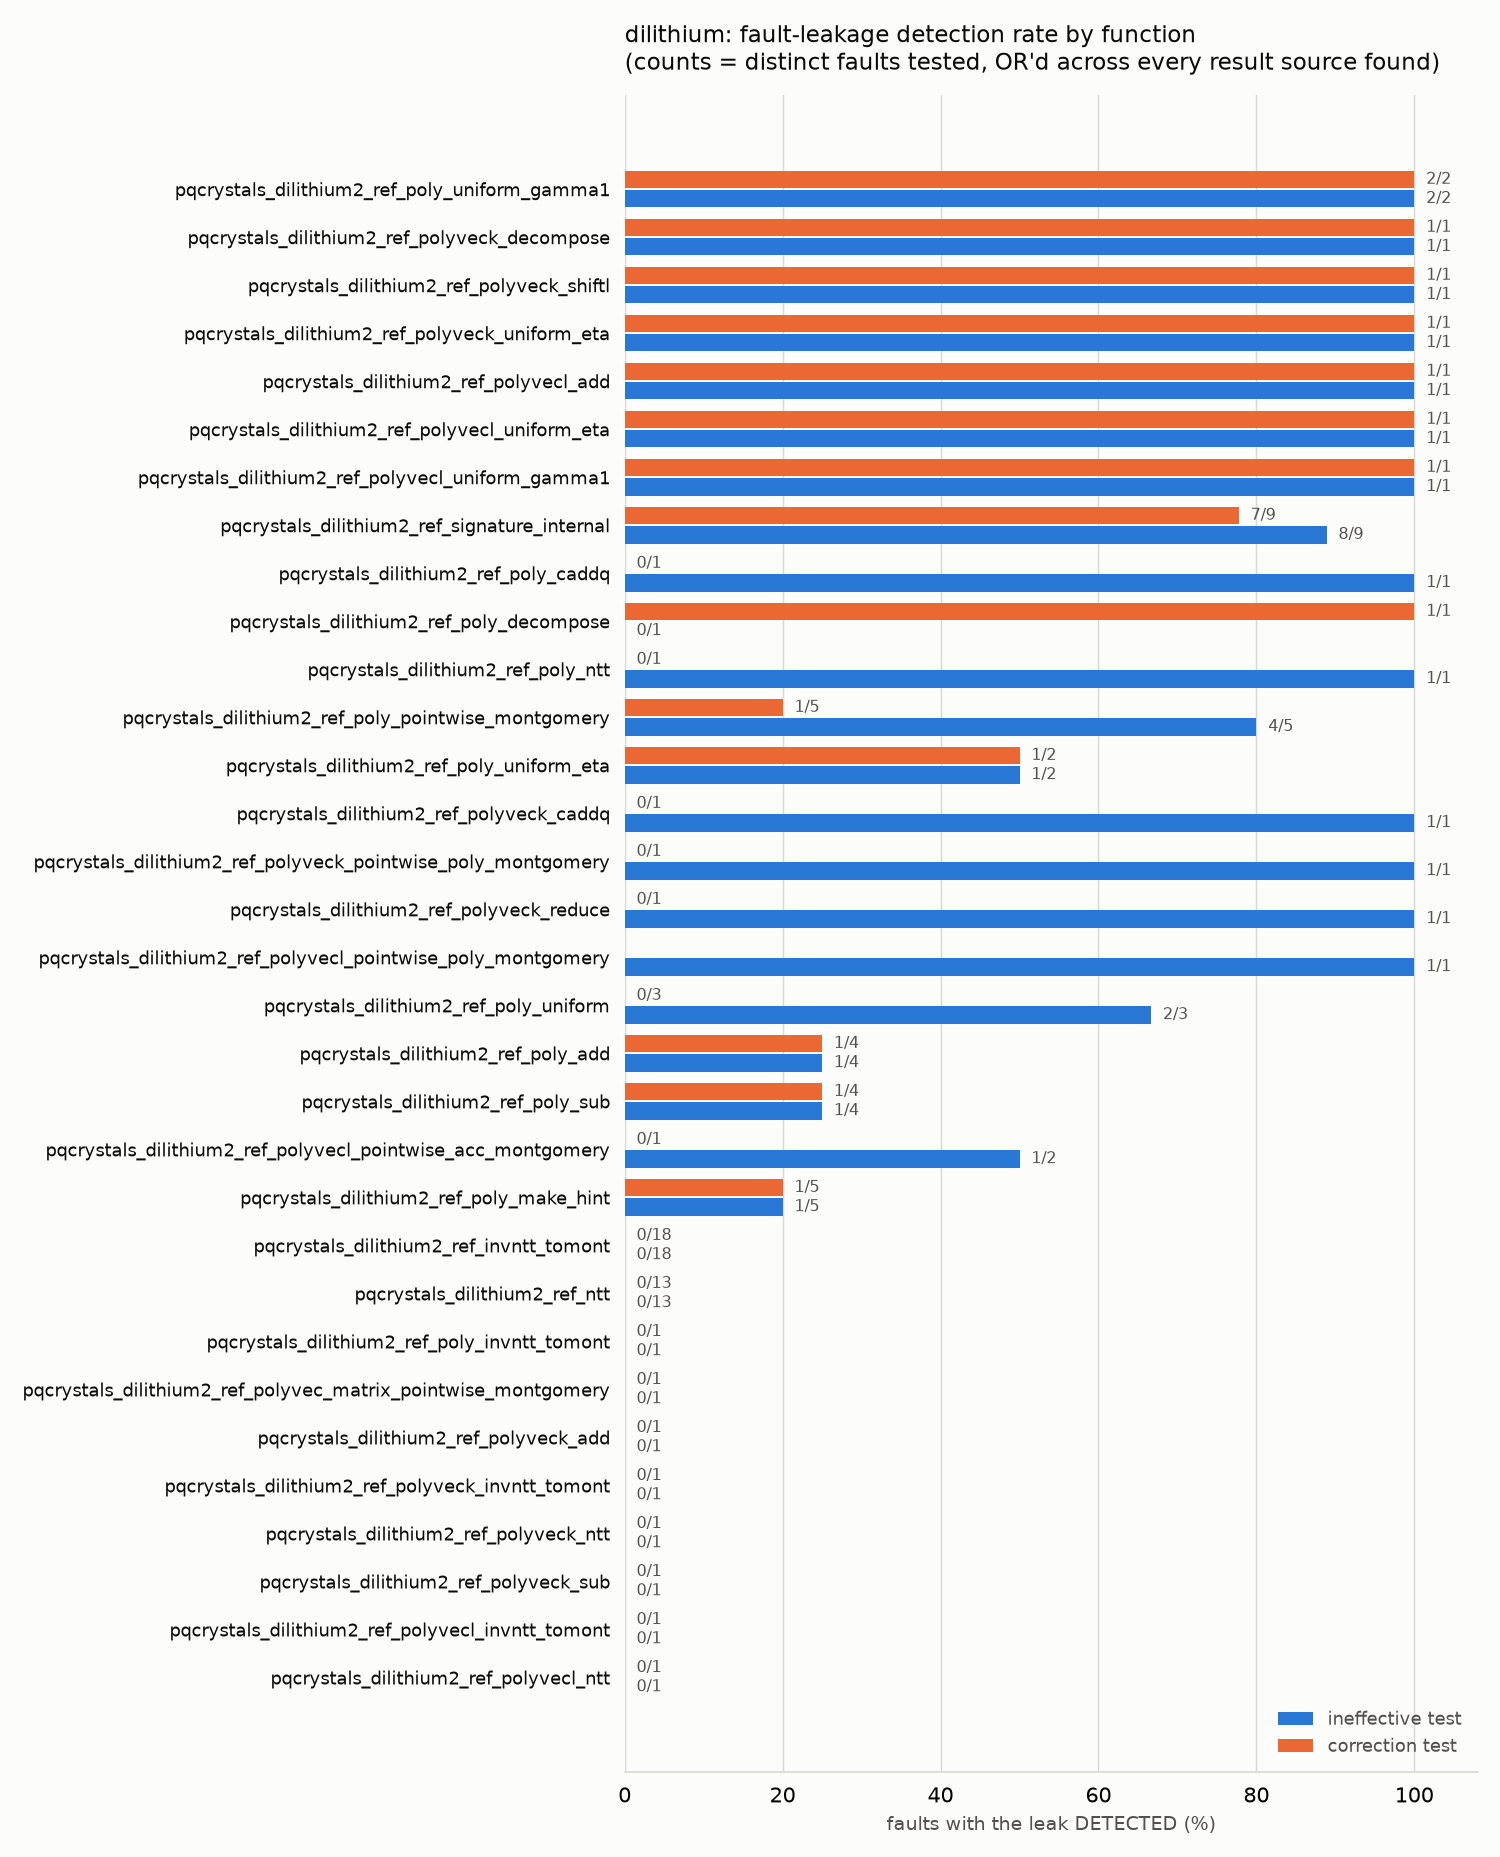
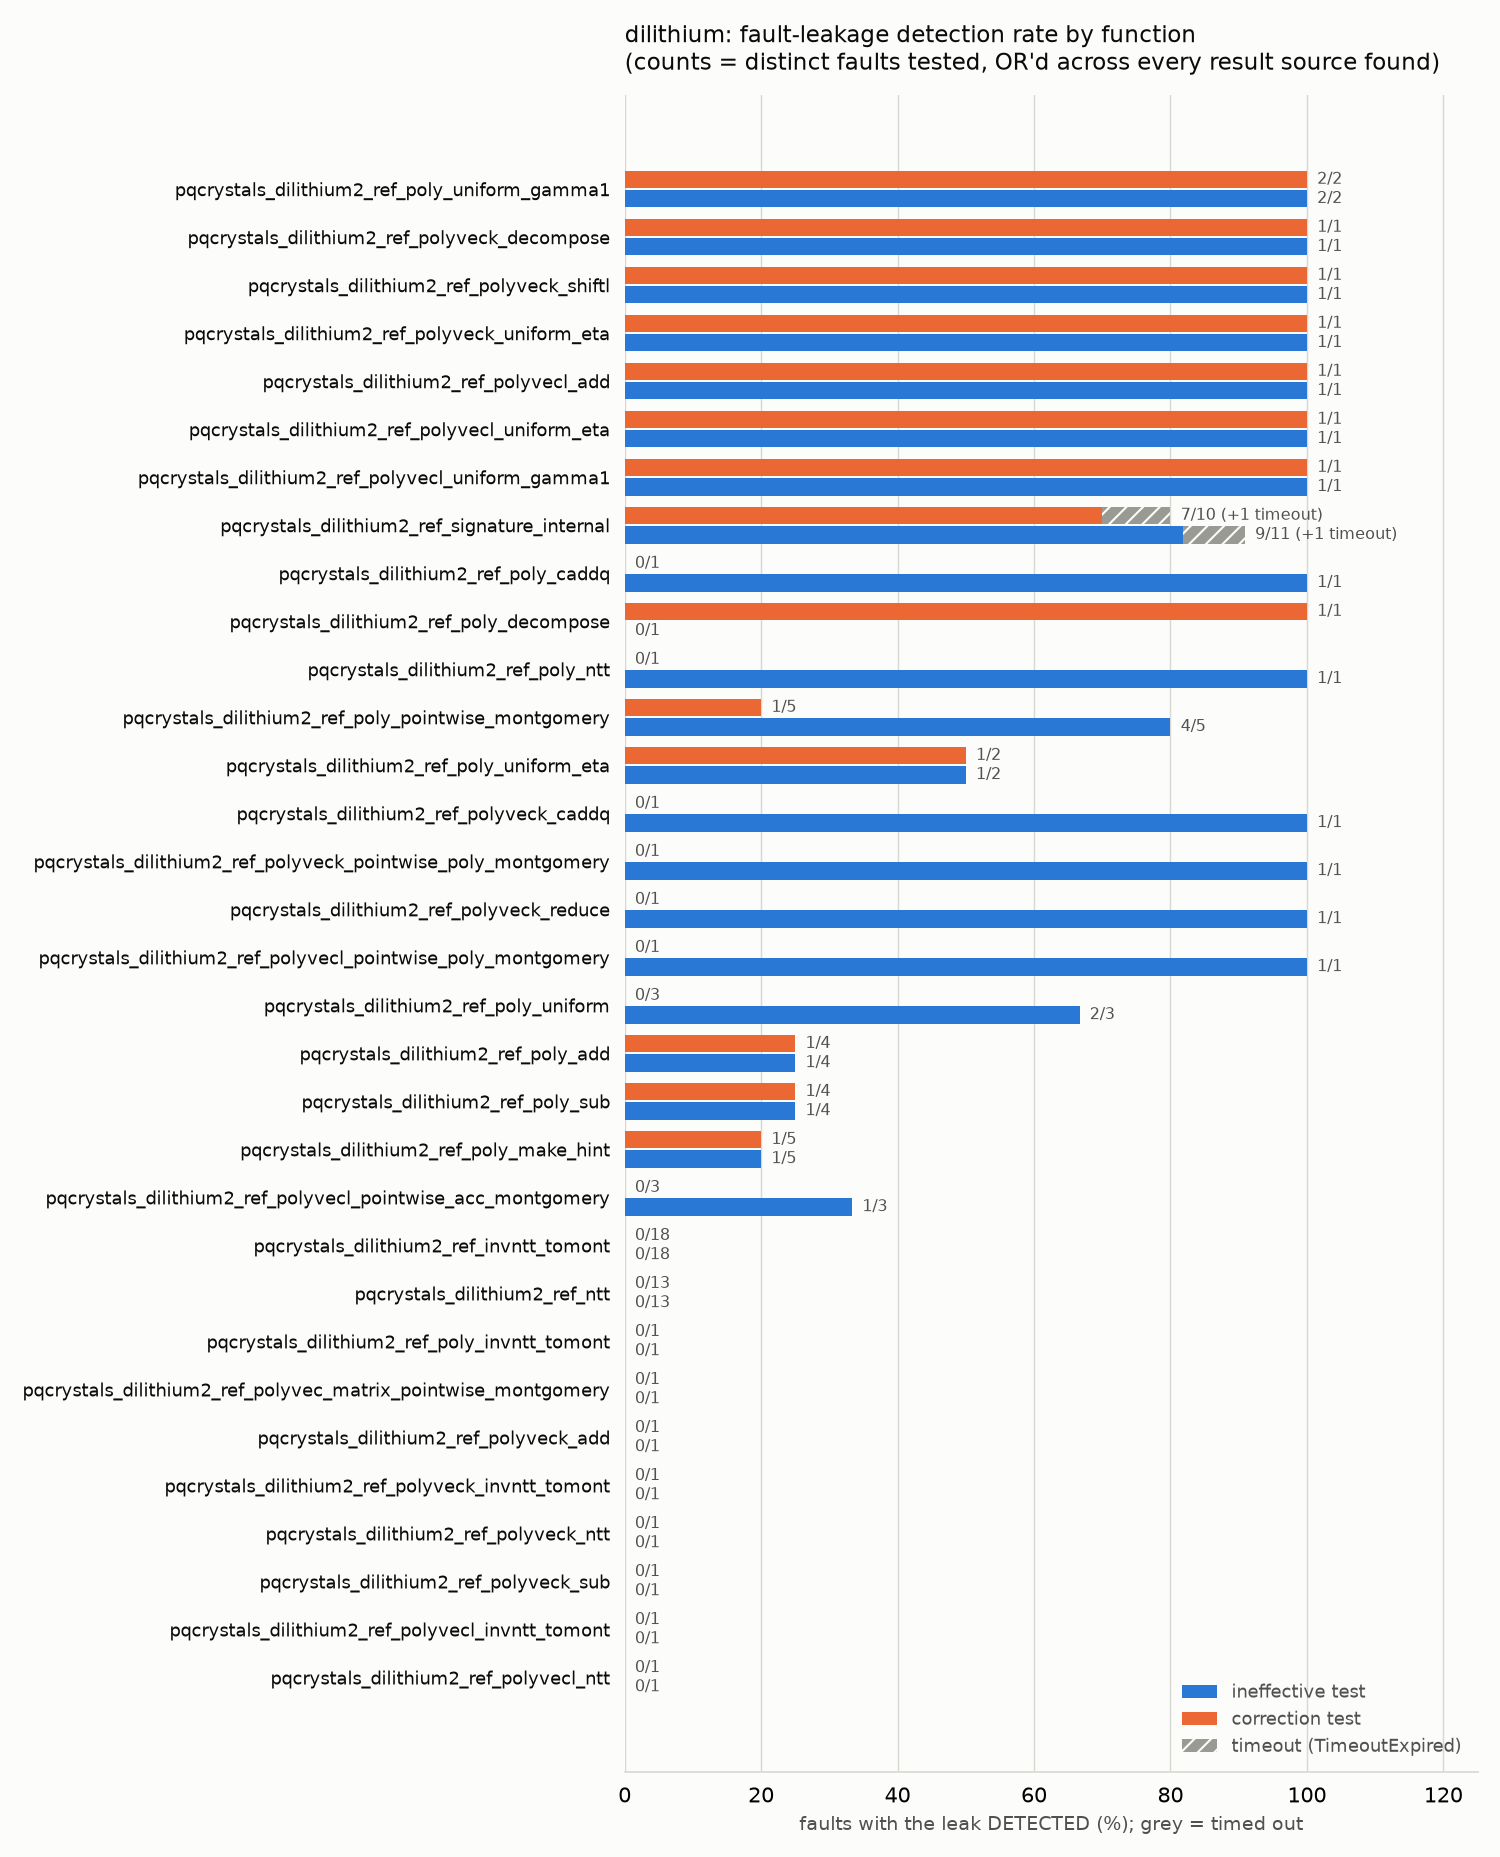
mayo, dilithium fn test+timeout reporting

diff --git a/generic_tests_plot.py b/generic_tests_plot.py
@@ -64,6 +64,11 @@ TEST_RESULT_FILENAME = "test_result.txt"
 TEST_HIT_RE = re.compile(r"^\[\+\] (INEFFECTIVE|CORRECTION) hit\b.*$", re.MULTILINE)
 TEST_RESULT_RE = re.compile(r"^\[RESULT\] (ineffective|correction) test: (.*)$", re.MULTILINE)
 
+# A run that died on a subprocess timeout (e.g. gdb-multiarch exceeding its
+# limit) leaves a traceback ending in this, and no verdict at all. Recorded as
+# detected="timeout" for BOTH tests so it is plotted rather than dropped.
+TIMEOUT_RE = re.compile(r"subprocess\.TimeoutExpired")
+
 FIELDNAMES = ["scheme", "function", "fault", "source", "test", "detected", "detail"]
 
 # Status colors (fixed, never themed) and the two-test categorical pair, from
@@ -73,18 +78,21 @@ FIELDNAMES = ["scheme", "function", "fault", "source", "test", "detected", "deta
 COLOR_INEFFECTIVE = "#2a78d6"   # categorical slot 1 (blue)
 COLOR_CORRECTION = "#eb6834"    # categorical slot 2 (orange)
 COLOR_UNDETECTED = "#d03b3b"    # status critical (used sparingly, labeled)
+COLOR_TIMEOUT = "#9a9a94"       # neutral grey: "no verdict", not good/bad
 COLOR_GRID = "#d9d8d2"
 COLOR_TEXT = "#0b0b0b"
 COLOR_TEXT_MUTED = "#52514e"
 
 
 def parse_paired_result(path):
-    """Returns [(detected: bool, detail: str)] -- at most one row, since a
+    """Returns [(detected: bool | "timeout", detail: str)] -- at most one row, since a
     paired-result file is one test's ENTIRE verdict, not per-position."""
     try:
         text = open(path, errors="replace").read()
     except OSError as e:
         return [(False, f"(unreadable: {e})")]
+    if TIMEOUT_RE.search(text):
+        return [("timeout", "subprocess.TimeoutExpired")]
     hits = PAIRED_HIT_RE.findall(text)
     positive = [(pos, x, y, phrase) for pos, x, y, phrase in hits if int(x) > 0]
     if positive:
@@ -104,12 +112,18 @@ def parse_test_result(path):
         return [("ineffective", False, f"(unreadable: {e})"), ("correction", False, f"(unreadable: {e})")]
     hits = {m.group(1).lower(): m.group(0).strip() for m in TEST_HIT_RE.finditer(text)}
     verdicts = {t: v.strip() for t, v in TEST_RESULT_RE.findall(text)}
+    if TIMEOUT_RE.search(text) and not hits and not verdicts:
+        return [(t, "timeout", "subprocess.TimeoutExpired") for t in ("ineffective", "correction")]
     out = []
     for test in ("ineffective", "correction"):
         if test not in hits and test not in verdicts:
             continue
         out.append((test, test in hits, verdicts.get(test) or hits.get(test)))
     return out
+
+
+def _status(detected):
+    return detected if detected == "timeout" else ("yes" if detected else "no")
 
 
 def fault_name(func_dir, result_path):
@@ -140,7 +154,7 @@ def scan_scheme(scheme, tests_root):
                             "fault": fault,
                             "source": fn,
                             "test": test,
-                            "detected": "yes" if detected else "no",
+                            "detected": _status(detected),
                             "detail": detail,
                         }
                 elif fn == TEST_RESULT_FILENAME:
@@ -153,30 +167,33 @@ def scan_scheme(scheme, tests_root):
                             "fault": fault,
                             "source": fn,
                             "test": test,
-                            "detected": "yes" if detected else "no",
+                            "detected": _status(detected),
                             "detail": detail,
                         }
 
 
 def aggregate_detection_rates(rows):
-    """Collapses `rows` (as written to the CSV) to one (detected: bool) per
-    (function, fault, test) -- if EITHER source file for a given fault+test
-    says detected, it counts as detected once, so a fault tested via both
-    the paired-sweep and early-stop pipelines isn't double-counted or
-    allowed to cancel itself out. Returns {function: {test: (n_detected,
-    n_total)}}."""
-    verdict = {}  # (function, fault, test) -> bool (OR'd across sources)
+    """Collapses `rows` (as written to the CSV) to one status per
+    (function, fault, test) -- if ANY source file for a given fault+test says
+    detected it counts as detected once (so a fault tested via both the
+    paired-sweep and early-stop pipelines isn't double-counted); otherwise a
+    timeout beats a plain "no" (it is an inconclusive run, not a clean pass).
+    Returns {function: {test: [n_detected, n_timeout, n_total]}}."""
+    rank = {"no": 0, "timeout": 1, "yes": 2}
+    verdict = {}  # (function, fault, test) -> "yes" | "timeout" | "no"
     for r in rows:
         key = (r["function"], r["fault"], r["test"])
-        is_hit = r["detected"] == "yes"
-        verdict[key] = verdict.get(key, False) or is_hit
+        if rank[r["detected"]] >= rank[verdict.get(key, "no")]:
+            verdict[key] = r["detected"]
 
-    counts = {}  # function -> test -> [n_detected, n_total]
-    for (func, _fault, test), detected in verdict.items():
-        bucket = counts.setdefault(func, {"ineffective": [0, 0], "correction": [0, 0]})
-        bucket[test][1] += 1
-        if detected:
+    counts = {}
+    for (func, _fault, test), status in verdict.items():
+        bucket = counts.setdefault(func, {"ineffective": [0, 0, 0], "correction": [0, 0, 0]})
+        bucket[test][2] += 1
+        if status == "yes":
             bucket[test][0] += 1
+        elif status == "timeout":
+            bucket[test][1] += 1
     return counts
 
 
@@ -197,13 +214,17 @@ def plot_scheme(scheme, rows, out_path):
     counts = aggregate_detection_rates(rows)
     # Drop functions with zero tested faults for BOTH tests -- nothing to
     # plot, and they'd otherwise render as two zero-length bars.
-    funcs = [f for f, c in counts.items() if c["ineffective"][1] or c["correction"][1]]
+    funcs = [f for f, c in counts.items() if c["ineffective"][2] or c["correction"][2]]
     if not funcs:
         raise RuntimeError(f"no plottable data for scheme {scheme!r}")
 
     def rate(func, test):
-        n_hit, n_total = counts[func][test]
+        n_hit, _n_to, n_total = counts[func][test]
         return (100.0 * n_hit / n_total) if n_total else 0.0
+
+    def to_rate(func, test):
+        _n_hit, n_to, n_total = counts[func][test]
+        return (100.0 * n_to / n_total) if n_total else 0.0
 
     # Sort by combined detection rate descending, so the functions with the
     # most leakage lead -- the headline a reader wants first.
@@ -225,6 +246,17 @@ def plot_scheme(scheme, rows, out_path):
     ax.barh([i - bar_h / 2 - 0.02 for i in y], corr_rates, height=bar_h,
             color=COLOR_CORRECTION, label="correction test", zorder=3)
 
+    # Timeouts stack after the detected segment as hatched grey: they are
+    # inconclusive runs (subprocess.TimeoutExpired), counted in the total.
+    for k, (offset, test, rates) in enumerate((
+        (bar_h / 2 + 0.02, "ineffective", ineff_rates),
+        (-bar_h / 2 - 0.02, "correction", corr_rates),
+    )):
+        ax.barh([i + offset for i in y], [to_rate(f, test) for f in funcs],
+                left=rates, height=bar_h, color=COLOR_TIMEOUT, hatch="///",
+                edgecolor="#fcfcfb", linewidth=0,
+                label="timeout (TimeoutExpired)" if k == 0 else None, zorder=3)
+
     # Direct labels: "n/N" so the bar carries the real counts, not just a
     # rate that could be misread as a percentage of ALL faults in the repo.
     for i, f in enumerate(funcs):
@@ -232,18 +264,19 @@ def plot_scheme(scheme, rows, out_path):
             (bar_h / 2 + 0.02, "ineffective", COLOR_INEFFECTIVE),
             (-bar_h / 2 - 0.02, "correction", COLOR_CORRECTION),
         ):
-            n_hit, n_total = counts[f][test]
+            n_hit, n_to, n_total = counts[f][test]
             if n_total == 0:
                 continue
-            r = rate(f, test)
-            ax.text(r + 1.5, i + offset, f"{n_hit}/{n_total}",
+            r = rate(f, test) + to_rate(f, test)
+            lab = f"{n_hit}/{n_total}" + (f" (+{n_to} timeout)" if n_to else "")
+            ax.text(r + 1.5, i + offset, lab,
                     va="center", ha="left", fontsize=7.5, color=COLOR_TEXT_MUTED)
 
     ax.set_yticks(list(y))
     ax.set_yticklabels(funcs, fontsize=8.5, color=COLOR_TEXT)
     ax.invert_yaxis()
-    ax.set_xlim(0, 108)
-    ax.set_xlabel("faults with the leak DETECTED (%)", fontsize=9, color=COLOR_TEXT_MUTED)
+    ax.set_xlim(0, 125)
+    ax.set_xlabel("faults with the leak DETECTED (%); grey = timed out", fontsize=9, color=COLOR_TEXT_MUTED)
     ax.set_title(
         f"{scheme}: fault-leakage detection rate by function\n"
         f"(counts = distinct faults tested, OR'd across every result source found)",
@@ -299,12 +332,13 @@ def main():
                 w.writerow(row)
 
         n_detected = sum(1 for r in rows if r["detected"] == "yes")
+        n_timeout = sum(1 for r in rows if r["detected"] == "timeout")
         n_faults = len({(r["function"], r["fault"]) for r in rows})
         n_funcs = len({r["function"] for r in rows})
         if rows:
             print(f"[{scheme}] {out_path}: {len(rows)} test result(s) across "
                   f"{n_faults} fault(s) in {n_funcs} function(s) -- "
-                  f"{n_detected} DETECTED")
+                  f"{n_detected} DETECTED, {n_timeout} TIMEOUT")
         else:
             print(f"[{scheme}] {out_path}: no result files found under {tests_root}")
 

diff --git a/dist_tests/mayo/setup/extract_qemu_witness.py b/dist_tests/mayo/setup/extract_qemu_witness.py
@@ -75,8 +75,16 @@ def _parse_array_type(type_text: str):
     return count, rest
 
 
-def extract_allocas(ll_text: str) -> Dict[str, int]:
-    """{var_name: raw alloca total byte size}, in first-appearance order.
+def extract_allocas(ll_text: str) -> Tuple[Dict[str, int], set]:
+    """Returns (sizes, scalar_ptr_names):
+
+      sizes: {var_name: raw alloca total byte size}, in first-appearance
+        order.
+      scalar_ptr_names: the subset of `sizes` keys that came from the
+        SCALAR alloca form rather than an array -- i.e. a POINTER argument
+        whose traced root was itself a scalar local (e.g. a `size_t *smlen`
+        out-parameter). derive_layout marks such an argument
+        "type": "scalar_ptr" plus an "init_value" from the sample.
 
     Handles three alloca shapes, all requiring !llvmbmc.var on the same
     statement to be picked up at all:
@@ -85,6 +93,7 @@ def extract_allocas(ll_text: str) -> Dict[str, int]:
       - scalar:        %siglen = alloca i32, ..., !llvmbmc.var !N
     """
     allocas = {}
+    scalar_ptr_names = set()
     for m in ALLOCA_START_RE.finditer(ll_text):
         var_name = m.group("name")
         pos = m.end()
@@ -129,8 +138,9 @@ def extract_allocas(ll_text: str) -> Dict[str, int]:
                 continue
             base_type = type_m.group(1)
             allocas[var_name] = TYPE_SIZES.get(base_type, 1)
+            scalar_ptr_names.add(var_name)
 
-    return allocas
+    return allocas, scalar_ptr_names
 
 
 def find_main_body(ll_text: str) -> str:
@@ -292,7 +302,7 @@ def load_first_sample(json_path: Path) -> Dict[str, object]:
                 return json.loads(line)
     raise ValueError(f"No JSON objects found in {json_path}")
 def derive_layout(ll_text: str, fn_name: str, sample: Dict[str, object]) -> Dict[str, dict]:
-    allocas = extract_allocas(ll_text)
+    allocas, scalar_ptr_names = extract_allocas(ll_text)
     call_args = find_fut_call(find_main_body(ll_text), fn_name)
 
     if "output" not in sample:
@@ -341,6 +351,24 @@ def derive_layout(ll_text: str, fn_name: str, sample: Dict[str, object]) -> Dict
             layout[key] = {"role": "input", "length": length}
             ptr_keys.add(key)
             warn_if_placeholder_buffer(key, var_name, length, key_to_arg, allocas, output_keys)
+
+            if var_name in scalar_ptr_names:
+                # A POINTER to a single scalar (e.g. `size_t *smlen`), not
+                # a byte buffer. Distinct from the anchor-based "scalar"
+                # type used for register arguments: it has no anchor, its
+                # address only exists at runtime via the real pointer
+                # argument. "init_value" documents its observed value.
+                sample_val = sample.get(key)
+                if isinstance(sample_val, bool) or not isinstance(sample_val, int):
+                    print(
+                        f"[!] '{key}' is a scalar-shaped pointer argument, "
+                        f"but its sample value ({sample_val!r}) isn't a "
+                        f"plain integer; leaving it as a plain pointer "
+                        f"buffer without a 'type'/'init_value' hint."
+                    )
+                else:
+                    layout[key]["type"] = "scalar_ptr"
+                    layout[key]["init_value"] = sample_val
 
         elif kind == "reg":
             anchor_name, byte_width = find_arg_anchor(ll_text, val)

diff --git a/dist_tests/dilithium/early_stop_sweep_unicorn.py b/dist_tests/dilithium/early_stop_sweep_unicorn.py
@@ -92,7 +92,7 @@ if _SETUP_DIR not in sys.path:
 if os.path.dirname(os.path.abspath(__file__)) not in sys.path:
     sys.path.insert(0, os.path.dirname(os.path.abspath(__file__)))
 
-from setup.collect_dist_unicorn import run_one, RunFailed  # noqa: E402  (unmodified, in-process Unicorn backend)
+from setup.collect_dist_unicorn import run_one, RunFailed, RunTimeout  # noqa: E402  (unmodified, in-process Unicorn backend)
 from setup.distributions_unicorn import infer_field_mod, domain_values, domain_bounds  # noqa: E402
 from ineffective_dilithium import (                 # noqa: E402  (unmodified)
     decode_words,
@@ -262,6 +262,14 @@ def main():
             already_present &= os.path.exists(c_path) and os.path.exists(f_path)
             try:
                 c, fdata = load_or_collect(sval, c_path, f_path, args, p)
+            except RunTimeout as e:
+                # Not skippable: a hanging ELF hangs for every sv. Abort
+                # this ELF so the caller moves on to the next one. The
+                # marker below is what generic_tests_plot.py looks for.
+                print(f"[!] sv={sval} seed={p}: {e}", file=sys.stderr)
+                print("[RESULT] aborted: subprocess.TimeoutExpired -- "
+                      "emulation timed out, moving on to the next ELF")
+                sys.exit(124)
             except RunFailed as e:
                 print(f"[!] sv={sval} seed={p}: collection failed, "
                       f"skipping sv.\n{e}", file=sys.stderr)

diff --git a/dist_tests/common/unicorn_runner.py b/dist_tests/common/unicorn_runner.py
@@ -46,10 +46,22 @@ runtime address directly. This runner instead:
 
 import os
 import struct
+import time
 
 from .dwarf_params import pointer_param_order
 from .elfimage import ElfImage
 from .machine import Machine
+
+
+# Wall-clock cap for the single emu_start() of one trial. A faulty ELF (e.g.
+# a skipped loop-counter update) can spin forever; Unicorn's own timeout
+# stops silently, so run_trial() detects it and raises TrialTimeout.
+# Override with UNICORN_TRIAL_TIMEOUT_S (seconds, 0 disables).
+TRIAL_TIMEOUT_S = float(os.environ.get("UNICORN_TRIAL_TIMEOUT_S", "300"))
+
+
+class TrialTimeout(RuntimeError):
+    """The trial did not return from main() within TRIAL_TIMEOUT_S."""
 
 
 class TrialError(RuntimeError):
@@ -283,7 +295,14 @@ def run_trial(
         )
 
     # -- 5. run main() to completion in one shot -----------------------
-    m._emu_start(main_entry_pc, return_addr)
+    t0 = time.monotonic()
+    m._emu_start(main_entry_pc, return_addr,
+                 timeout=int(TRIAL_TIMEOUT_S * 1_000_000))
+    if (TRIAL_TIMEOUT_S > 0 and m.reg("pc") & ~1 != return_addr
+            and time.monotonic() - t0 >= TRIAL_TIMEOUT_S * 0.99):
+        raise TrialTimeout(
+            f"main() did not return within {TRIAL_TIMEOUT_S:g}s "
+            f"(pc=0x{m.reg('pc'):x})")
 
     # -- 6. read outputs -------------------------------------------------
     addr_of = {**scalar_addr, **ptr_addr}

diff --git a/dist_tests/dilithium/setup/collect_dist_unicorn.py b/dist_tests/dilithium/setup/collect_dist_unicorn.py
@@ -29,7 +29,7 @@ if "--dilithium-mode" in sys.argv:
     if _i + 1 < len(sys.argv):
         os.environ["GDB_DRIVER_DILITHIUM_MODE"] = sys.argv[_i + 1]
 
-from dist_tests.common.unicorn_runner import run_trial, TrialError
+from dist_tests.common.unicorn_runner import run_trial, TrialError, TrialTimeout
 from dist_tests.dilithium.setup.distributions_unicorn import (
     sample_for_distribution,
     _is_coeff_shaped,
@@ -37,6 +37,12 @@ from dist_tests.dilithium.setup.distributions_unicorn import (
     COEFF_BYTES,
     infer_field_mod,
 )
+
+
+class RunTimeout(Exception):
+    """A trial exceeded the emulation wall-clock cap (likely an endless
+    loop in a faulty ELF). Deliberately NOT a RunFailed: callers must not
+    "skip this sv and continue" -- every other sv would hang too."""
 
 
 class RunFailed(Exception):
@@ -74,6 +80,11 @@ def run_one(elf_path, witness_path, active_lengths_path, func, field_mod,
             secret_buf, secret_pos, secret_val,
             also_override_hook=_dilithium_override_hook,
         )
+    except TrialTimeout as e:
+        raise RunTimeout(
+            f"subprocess.TimeoutExpired: {variant} run for "
+            f"{secret_buf}[{secret_pos}]={secret_val} (seed={seed}): {e}"
+        ) from e
     except (TrialError, Exception) as e:
         raise RunFailed(
             f"{variant} run for {secret_buf}[{secret_pos}]={secret_val} "
